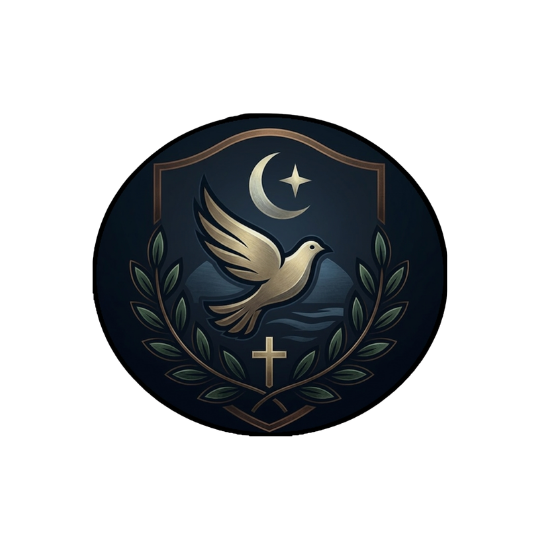
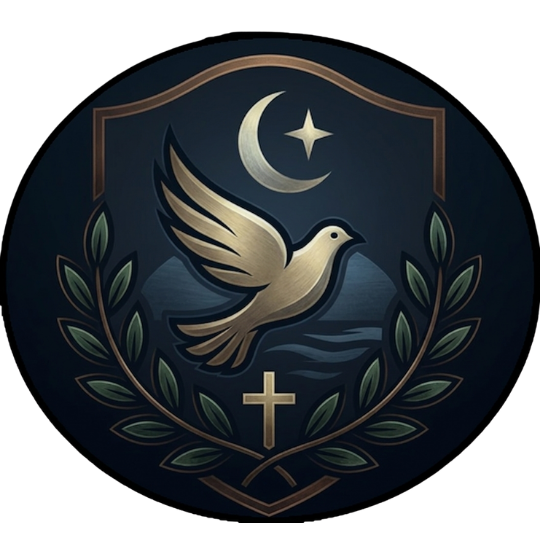
site final

diff --git a/Desenvolvimento Web/Aula 09 - Site funeraria com js/Funeraria/index.html b/Desenvolvimento Web/Aula 09 - Site funeraria com js/Funeraria/index.html
@@ -6,29 +6,35 @@
     <meta name="viewport" content="width=device-width, initial-scale=1.0">
     <title>Funerária Paz e Repouso</title>
     <script src="https://cdn.tailwindcss.com"></script>
+    
+    <script>
+        tailwind.config = {
+            darkMode: 'class',
+        }
+    </script>
 </head>
 
 <body class="bg-gray-50">
 
-    <header class="bg-gradient-to-r from-gray-900 to-gray-900 text-white  shadow-lg">
+    <header class="bg-gradient-to-r from-gray-300 to-gray-300  dark:from-gray-900 dark:to-gray-900   text-gray-900">
 
-        <div class="flex justify-center items-center space-x-2 ">
-            <div class="w-20 h-20  rounded-full  hover:scale-y-105  hover:scale-x-105">
-                <img src="img/55.png" alt="logo"
-                    class=" w-20 h-20 object-cover ">
+        <div class="flex justify-center items-center space-x-2 p-2">
+            <div class="w-16 h-16  rounded-full  hover:scale-y-105  hover:scale-x-105">
+               <button id="toggleBtn"> <img id="imgPomba" src="img/pomba branca.png" alt="logo"
+                    class="object-cover"></button>
             </div>
             <div>
-                <h1 class="text-2xl md:text-3xl font-bold   mr-0.20rem ">Funerária Paz e Repouso</h1>
-                <p class=" text-sm md:text-sm text-center">Serviços funerários com dignidade e respeito</p>
+                <h1 class="text-2xl md:text-3xl font-bold    dark:text-gray-50">Funerária Paz e Repouso</h1>
+                <p class=" text-sm md:text-sm text-center dark:text-gray-50">Serviços funerários com dignidade e respeito</p>
             </div>
 
         </div>
 
     </header>
 
-    <nav class=" bg-gray-300 text-gray-900 text-bold drop-shadow-md ">
+    <nav class=" bg-gray-300 text-gray-900 dark:bg-gray-800 dark:text-gray-50 font-bold drop-shadow-md shadow-lg  ">
         <div class=" max-w-6xl mx-auto px-4">
-            <ul class="flex text-center justify-center ml-10  gap-6 py-4 ">
+            <ul class="flex text-center justify-center ml-10  gap-6 py-4   ">
                 <li><a href="#servicos" class="hover:text-blue-400 transition">Serviços</a></li>
                 <li><a href="#sobre" class="hover:text-blue-400 transition">Sobre</a></li>
                 <li><a href="#contato" class="hover:text-blue-400 transition">Contato</a></li>
@@ -38,10 +44,10 @@
 
     <!-- home da pagina -->
 
-    <section class="bg-gradient-to-r from-gray-300 to-gray-300 text-gray-900 py-16">
+    <section class="bg-gradient-to-r from-gray-300 to-gray-400 text-gray-800 dark:from-gray-800 dark:to-gray-800  dark:text-gray-50 py-16">
         <div class="max-w-6xl mx-auto px-4 text-center">
             <h2 class="text-4xl font-bold mb-4">Sempre ao seu lado em momentos difíceis</h2>
-            <p class="text-lg text-gray-900 mb-8">Oferecemos serviços completos e atenciosos para homenagear
+            <p class="text-lg dark:text-gray-50 mb-8">Oferecemos serviços completos e atenciosos para homenagear
                 seus entes queridos</p>
             <a href="https://wa.me/5551980508723?text=Ol%C3%A1,%20gostaria%20de%20saber%20mais%20sobre%20seus%20servi%C3%A7os!"
                 target="_blank"
@@ -51,7 +57,7 @@
     </section>
 
     <!-- Services Section -->
-    <section id="servicos" class="max-w-6xl mx-auto px-4 py-16">
+    <section id="servicos" class="max-w-6xl mx-auto px-4 py-16  ">
         <h2 class="text-3xl font-bold text-gray-900 mb-12 text-center">Nossos Serviços</h2>
         <div class="grid grid-cols-1 md:grid-cols-3 gap-8">
             <!-- Service Card 1 -->
@@ -84,18 +90,18 @@
     </section>
 
     <!-- About Section -->
-    <section id="sobre" class="bg-gray-300 py-16">
+    <section id="sobre" class="bg-gradient-to-r from-gray-300 to-gray-400  dark:from-gray-800 dark:to-gray-800 py-16">
         <div class="max-w-6xl mx-auto px-4">
-            <h2 class="text-3xl font-bold text-gray-900 mb-8 text-center">Sobre Nós</h2>
+            <h2 class="text-3xl font-bold text-gray-900  dark:text-gray-50 mb-8 text-center">Sobre Nós</h2>
             <div class="grid grid-cols-1 md:grid-cols-2 gap-8 items-center">
                 <div>
-                    <p class="text-gray-700 mb-4">Com mais de 30 anos de experiência, a Funerária Paz e Repouso
+                    <p class="text-gray-900 dark:text-gray-50 mb-4">Com mais de 30 anos de experiência, a Funerária Paz e Repouso
                         é
                         referência em serviços funerários de qualidade.</p>
-                    <p class="text-gray-700 mb-4">Nossa equipe é treinada para oferecer suporte emocional e
+                    <p class="text-gray-900 dark:text-gray-50 mb-4">Nossa equipe é treinada para oferecer suporte emocional e
                         prático em
                         momentos delicados, com toda a sensibilidade necessária.</p>
-                    <p class="text-gray-700">Garantimos transparência, respeito e excelência em todos os nossos
+                    <p class="text-gray-900 dark:text-gray-50 ">Garantimos transparência, respeito e excelência em todos os nossos
                         serviços.</p>
                 </div>
                 <div class="h-64   rounded-lg flex items-center justify-center">
@@ -112,26 +118,26 @@
             <div class="text-center">
                 <p class="text-2xl mb-2">📞</p>
                 <h3 class="font-bold text-gray-900 mb-2">Telefone</h3>
-                <p class="text-gray-600">(51) 3683-9999</p>
-                <p class="text-gray-600">24 horas</p>
+                <p class="text-gray-900">(51) 3683-9999</p>
+                <p class="text-gray-900">24 horas</p>
             </div>
             <div class="text-center">
                 <p class="text-2xl mb-2">📧</p>
                 <h3 class="font-bold text-gray-900 mb-2">Email</h3>
-                <p class="text-gray-600">contato@pazrepouso.com.br</p>
+                <p class="text-gray-900">contato@pazrepouso.com.br</p>
             </div>
             <div class="text-center">
                 <p class="text-2xl mb-2">📍</p>
                 <h3 class="font-bold text-gray-900 mb-2">Endereço</h3>
-                <p class="text-gray-600">Avenida Rubem Berta, 1700 Centro Tramandaí - RS
+                <p class="text-gray-900">Avenida Rubem Berta, 1700 Centro Tramandaí - RS
                     CEP 94.640-959 </p>
-                <p class="text-gray-600">Tramandaí - RS</p>
+                <p class="text-gray-900">Tramandaí - RS</p>
             </div>
         </div>
     </section>
 
     <!-- Footer -->
-    <footer class="bg-gray-900 text-white text-center py-6">
+    <footer class="bg-gradient-to-r font-bold from-gray-400 to-gray-400  text-black text-center  dark:from-gray-800 dark:to-gray-800 dark:text-white py-6">
         <p>&copy; 2026 Funerária Paz e Repouso. Todos os direitos reservados.</p>
     </footer>
 

diff --git a/Desenvolvimento Web/Aula 09 - Site funeraria com js/Funeraria/scriptDark.js b/Desenvolvimento Web/Aula 09 - Site funeraria com js/Funeraria/scriptDark.js
@@ -4,17 +4,19 @@ let btn = document.getElementById('toggleBtn');
 
 let stored = localStorage.getItem('theme');
 
+let imgPomba = document.getElementById('imgPomba');
+
 let preferDark = window.matchMedia && window.matchMedia('(prefers-color-shceme: dark)').matches;
 
 function applyTheme(theme){
 
     if(theme === 'dark'){
         html.classList.add('dark');
-        btn.innerText = 'Alterar Tema ☀';
+        imgPomba.src = 'img/55.png';
     }else{
 
         html.classList.remove('dark');
-        btn.innerText = 'Alterar Tema 🌙';
+        imgPomba.src = 'img/pomba branca.png';
 
     }
 }
